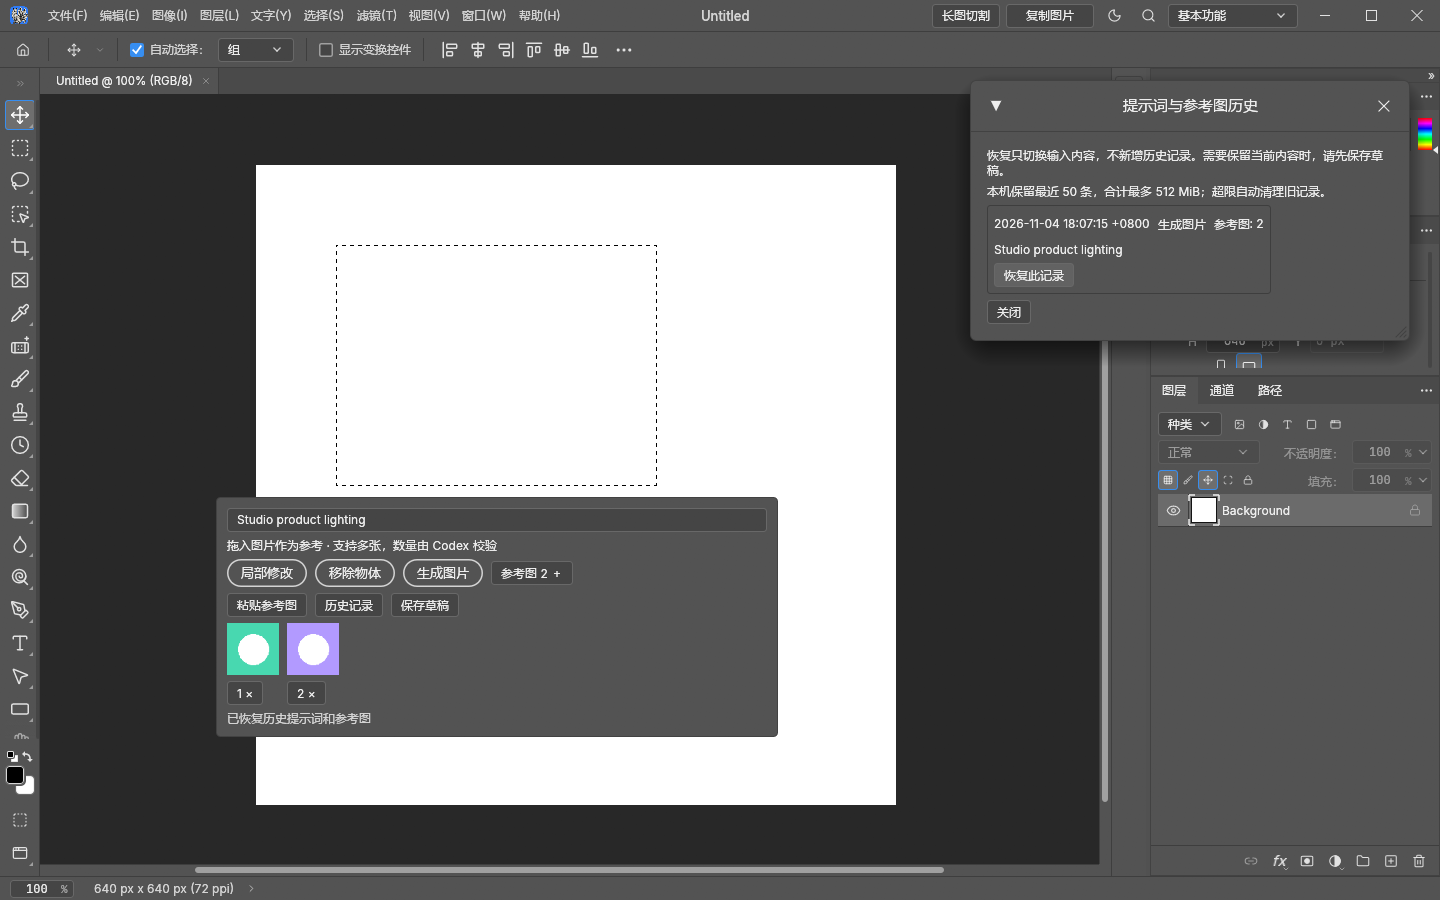
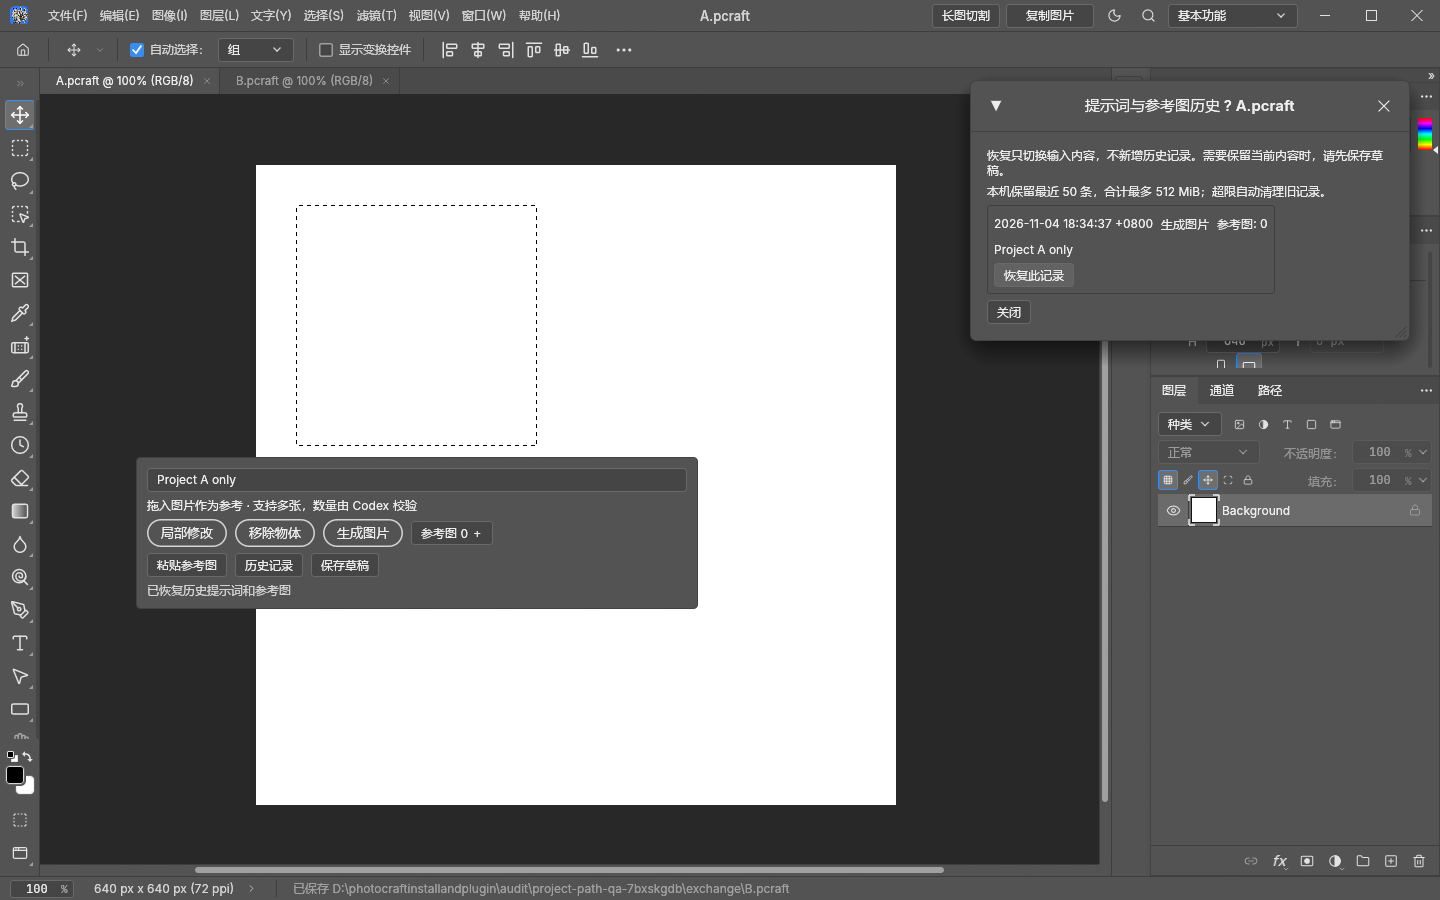
feat: store history and cutting plans beside each project

diff --git a/photocraft_ai/native.py b/photocraft_ai/native.py
@@ -28,6 +28,31 @@ class NativeWorker:
         self.cancel = threading.Event()
         self.state = {'busy': False, 'message': '就绪', 'error': False, 'job': None}
         self.history = History(RUNTIME / 'native-history')
+        self.project_histories = {}
+
+    def history_for(self, request):
+        if self.service is None:
+            return self.history
+        session=self.service.bridge.client.run('session.inspect')
+        expected=request.get('document', {})
+        active=session.get('active')
+        document=next((d for d in session.get('documents',[]) if d.get('index')==active),None)
+        if not document or (document.get('index'),document.get('name')) != (expected.get('index'),expected.get('name')):
+            raise ValueError('The active project changed; reopen history')
+        if 'path' in expected and expected['path'] != document.get('path'):
+            raise ValueError('The active project changed; reopen history')
+        path=document.get('path')
+        if not path:
+            raise ValueError('Save the project first to store history beside the project file')
+        project=Path(path)
+        if not project.is_absolute():
+            raise ValueError('The project path must be absolute')
+        folder=project.with_name(project.name+'.photocraft-data')/'history'
+        key=str(folder)
+        with self.lock:
+            if key not in self.project_histories:
+                self.project_histories[key]=History(folder)
+            return self.project_histories[key]
 
     def snapshot(self):
         with self.lock:
@@ -73,7 +98,7 @@ class NativeWorker:
                                            feather_px=0 if mode == 'generate' else 12,
                                            references=request.get('references', []))
             try:
-                self.history.save(request)
+                self.history_for(request).save(request)
             except Exception as error:
                 self.update(history_warning=str(error))
             self.update(job=str(prepared.job))
@@ -135,15 +160,17 @@ def handler(worker: NativeWorker, token: str):
                 if not isinstance(request, dict):
                     raise ValueError('请求必须是对象')
                 if self.path == '/history/list':
-                    self.respond(200, {'entries':worker.history.list()})
+                    self.respond(200, {'entries':worker.history_for(request).list()})
                     return
                 elif self.path == '/history/save':
-                    worker.history.save(request)
-                    self.respond(200, {'entries':worker.history.list()})
+                    history=worker.history_for(request)
+                    history.save(request)
+                    self.respond(200, {'entries':history.list()})
                     return
                 elif self.path == '/history/restore':
-                    restored=worker.history.restore(request.get('id'))
-                    self.respond(200, {**restored, 'entries':worker.history.list()})
+                    history=worker.history_for(request)
+                    restored=history.restore(request.get('id'))
+                    self.respond(200, {**restored, 'entries':history.list()})
                     return
                 elif self.path == '/generate':
                     worker.submit(request)

diff --git a/tests/test_history.py b/tests/test_history.py
@@ -70,6 +70,7 @@ class HistoryTests(unittest.TestCase):
             service.bridge._revision.return_value=1
             service.prepare.return_value=SimpleNamespace(job=Path(directory)/'job')
             worker=NativeWorker(service);worker.history=History(Path(directory)/'history')
+            worker.history_for=Mock(return_value=worker.history)
             request={'mode':'fill','prompt':'edit prompt','document':{'index':0,'name':'Demo','revision':1},'references':[picture()]}
             worker._run(request)
             self.assertFalse(worker.snapshot()['error']);self.assertEqual(worker.history.list()[0]['prompt'],'edit prompt')
@@ -112,5 +113,21 @@ class HistoryTests(unittest.TestCase):
             self.assertEqual(len(list(Path(directory).iterdir())),1)
             changed={**request,'prompt':'changed'}
             self.assertNotEqual(h.save(changed),first)
+
+    def test_project_history_uses_editor_paths_and_isolates_projects(self):
+        with tempfile.TemporaryDirectory() as directory:
+            service=Mock();worker=NativeWorker(service)
+            first=str(Path(directory)/'one.pcraft');second=str(Path(directory)/'two.pcraft')
+            def active(path):
+                service.bridge.client.run.return_value={'active':0,'documents':[{'index':0,'name':'Demo','path':path}]}
+            request={'document':{'index':0,'name':'Demo'}}
+            active(first);a=worker.history_for(request);a.save({'prompt':'project one'})
+            self.assertEqual(a.root,Path(first+'.photocraft-data')/'history')
+            active(second);self.assertEqual(worker.history_for(request).list(),[])
+            active(first);self.assertEqual(worker.history_for(request).list()[0]['prompt'],'project one')
+            active(None)
+            with self.assertRaises(ValueError):worker.history_for(request)
+            active(second)
+            with self.assertRaises(ValueError):worker.history_for({'document':{'index':0,'name':'Demo','path':first}})
 
 if __name__=='__main__':unittest.main()

diff --git a/docs/project-data.md b/docs/project-data.md
@@ -1,0 +1,38 @@
+# 工程数据路径 / Project data paths
+
+已保存的工程使用同目录的专属文件夹。保留工程完整文件名和扩展名，再追加 `.photocraft-data`，避免同名 PSD、PNG、PCraft 混用记录。
+
+```text
+设计目录/
+├─ 海报.pcraft
+└─ 海报.pcraft.photocraft-data/
+   ├─ history/
+   │  └─ <记录ID>/
+   │     ├─ snapshot.json
+   │     └─ references/reference-01.png …
+   └─ cutting/
+      ├─ plan.json
+      └─ longpiccutter.json
+```
+
+- `history/`：提示词、操作类型、参考图快照。每个工程独立保留最多 50 条和 512 MiB；恢复不新增记录，重复保存去重。
+- `cutting/plan.json`：切割线自动保存和恢复。根据工程路径归属，不再按画布像素放入全局目录；相同图片的两个工程也互不影响。尺寸不兼容的方案不会自动应用。
+- `cutting/longpiccutter.json`：点击“导出方案”时保存的互通 JSON，不再要求另选目录。PNG ZIP 仍可选择输出位置。
+- 未保存工程：提示先保存工程再保留历史；切割线只在本次窗口内存在，仍可手动导出 JSON。
+- 切换工程：历史列表跟随当前工程，过期异步结果不会覆盖新工程；切图窗口关闭，重新打开读取该工程方案。
+- 另存为：新路径使用新数据目录，旧历史仍属于旧工程，不自动复制。若切图窗口保持打开，当前切割线会随另存为写入新工程目录。
+- 移动整个工程：将工程文件与旁边的数据文件夹一起复制。手动改工程文件名时，也将数据文件夹改为相同的新完整文件名加 `.photocraft-data`。
+- 旧版 `runtime/native-history/` 和配置目录 `long-cut/` 保留原处，不自动混入工程目录，避免把来源不明的记录归给错误工程。
+
+## English
+
+Saved projects use `<full-project-filename>.photocraft-data/` beside the project file. Keeping the extension separates similarly named PSD, PNG and PCraft projects.
+
+- `history/<id>/snapshot.json` and `references/` hold prompt/reference snapshots. Retention is **per project**: 50 entries / 512 MiB. Restore is read-only and identical snapshots are reused.
+- `cutting/plan.json` automatically persists cut lines. Identical canvases in different projects remain isolated; incompatible canvas sizes do not reuse a plan.
+- **Export plan** writes `cutting/longpiccutter.json`. PNG ZIP export still asks for its destination.
+- Save an untitled project before storing history. Unsaved cutting plans remain in the current window; manual JSON export is available.
+- Switching documents changes history scope and discards stale asynchronous history responses. Reopen the cutter to load that project's plan.
+- Save As starts a new history scope, retaining the old project's history. An open cutter carries its current lines into the new project's data directory.
+- Move the project file and its adjacent data directory together. When renaming the project manually, rename its data directory to match.
+- Legacy global history and cutter caches remain untouched; they are not automatically assigned to a project.

diff --git a/docs/usage-en.md b/docs/usage-en.md
@@ -42,5 +42,7 @@ The geometric demo artwork was made for this project. Screenshots contain no use
 - From this update onward, successfully prepared generation tasks save their prompt, operation and references automatically. Click **Save draft** to keep inputs before generating.
 - Open **History** and choose **Restore this draft**. The selected prompt and ordered reference images replace the composer inputs without creating a record. The composer remains visible and editable. Use Save draft first if you want to keep your current inputs.
 - Restoring does not change the canvas, selection or layers, and does not trigger generation.
-- Records persist under `runtime/native-history/` across restarts. Up to 50 entries and 512 MiB are retained, with oldest entries removed when over budget. Older job directories are not imported automatically.
+- Records persist under `<full-project-filename>.photocraft-data/history/` across restarts. Per project, up to 50 entries and 512 MiB are retained, with oldest entries removed when over budget. Older job directories are not imported automatically.
 - Prompts and reference snapshots remain local. References are sent only when you submit a new generation request.
+
+[Project data path rules](project-data.md)

diff --git a/docs/usage-zh.md b/docs/usage-zh.md
@@ -42,5 +42,7 @@
 - 本次更新起，生成任务准备成功后会自动保存当次提示词、操作类型和参考图；尚未生成的内容可点击“保存草稿”。
 - 点击 AI 工具栏“历史记录”，选择记录并点击“恢复此记录”。恢复选中记录的完整提示词和参考图顺序，不新增记录。修改工具栏保持可见可编辑；需要保留当前内容时请先点保存草稿。
 - 恢复仅影响输入区，不替换画布、选区或图层，也不会自动调用生图。
-- 记录保存在安装目录 `runtime/native-history/`，重启后仍可恢复。保留最近 50 条，记录合计最多 512 MiB，超限自动删除最旧记录；不自动导入更新前的旧任务目录。
+- 记录保存在安装目录 `<工程完整文件名>.photocraft-data/history/`，重启后仍可恢复。保留最近 50 条，记录合计最多 512 MiB，超限自动删除最旧记录；不自动导入更新前的旧任务目录。
 - 记录中的图片和提示词只保存在本机；只有再次点击生成时，参考图才随新请求发送。
+
+[工程数据路径规则](project-data.md)

diff --git a/VALIDATION.md b/VALIDATION.md
@@ -1,5 +1,11 @@
 # 本机验证记录
 
+## 工程隔离保存（2026-11-04）
+
+- 历史按编辑器实际保存路径选择 `<完整文件名>.photocraft-data/history/`，HTTP 请求不能指定任意历史目录；校验当前工程上下文，切换/另存为时清理列表并丢弃过期异步结果。
+- 切图自动方案改为相邻 `cutting/plan.json`；导出方案写入 `cutting/longpiccutter.json`。切换文档关闭旧切图窗口，打开中的方案在另存为后改写新工程目录。
+- Python 63 项通过，新增工程隔离、未保存拒绝、过期路径拒绝。真实编辑器验证两份相同画布的工程历史和切图隔离、重开方案恢复、另存为切图路径跟随；未调用远端生图。
+
 ## 历史恢复逻辑修正（2026-11-04）
 
 - 打开历史时保留提示词/参考图修改工具栏，历史窗口默认位于右侧，可同时查看和编辑。

diff --git a/RELEASE_NOTES.md b/RELEASE_NOTES.md
@@ -1,5 +1,7 @@
 # Unreleased / 统一开发版新增
 
+- Project-scoped storage: history and cutter JSON live beside each saved project under `<filename>.photocraft-data/`. See [path rules](docs/project-data.md).
+
 - 提示词与参考图历史：自动记录生成输入、保存草稿、恢复不新增记录，相同内容去重；仅恢复输入区，跨重启保留，最近 50 条且合计最多 512 MiB。
 - 剪贴板参考图：按钮或提示词中 Ctrl+V 追加图片，兼容 Windows DIB/DIBV5，保留文字与画布粘贴。
 - Prompt/reference history with draft saving and restore, read-only rollback and duplicate snapshot reuse; local persistence with 50-entry / 512 MiB retention. Clipboard references support Windows DIB/DIBV5 while preserving text/canvas paste.

diff --git a/README.md b/README.md
@@ -1,5 +1,7 @@
 # PhotoCraft · Codex AI
 
+[工程数据路径规则 / Project data paths](docs/project-data.md)：历史和切图方案按工程分别保存在同目录的 `.photocraft-data` 文件夹。
+
 **原生选区 AI 工具栏 / Native selection AI toolbar**
 
 [中文](#中文说明) · [English](#english) · [下载 / Download v0.4.0](https://github.com/kaliwell/photocraft-codex-ai/releases/tag/v0.4.0)
